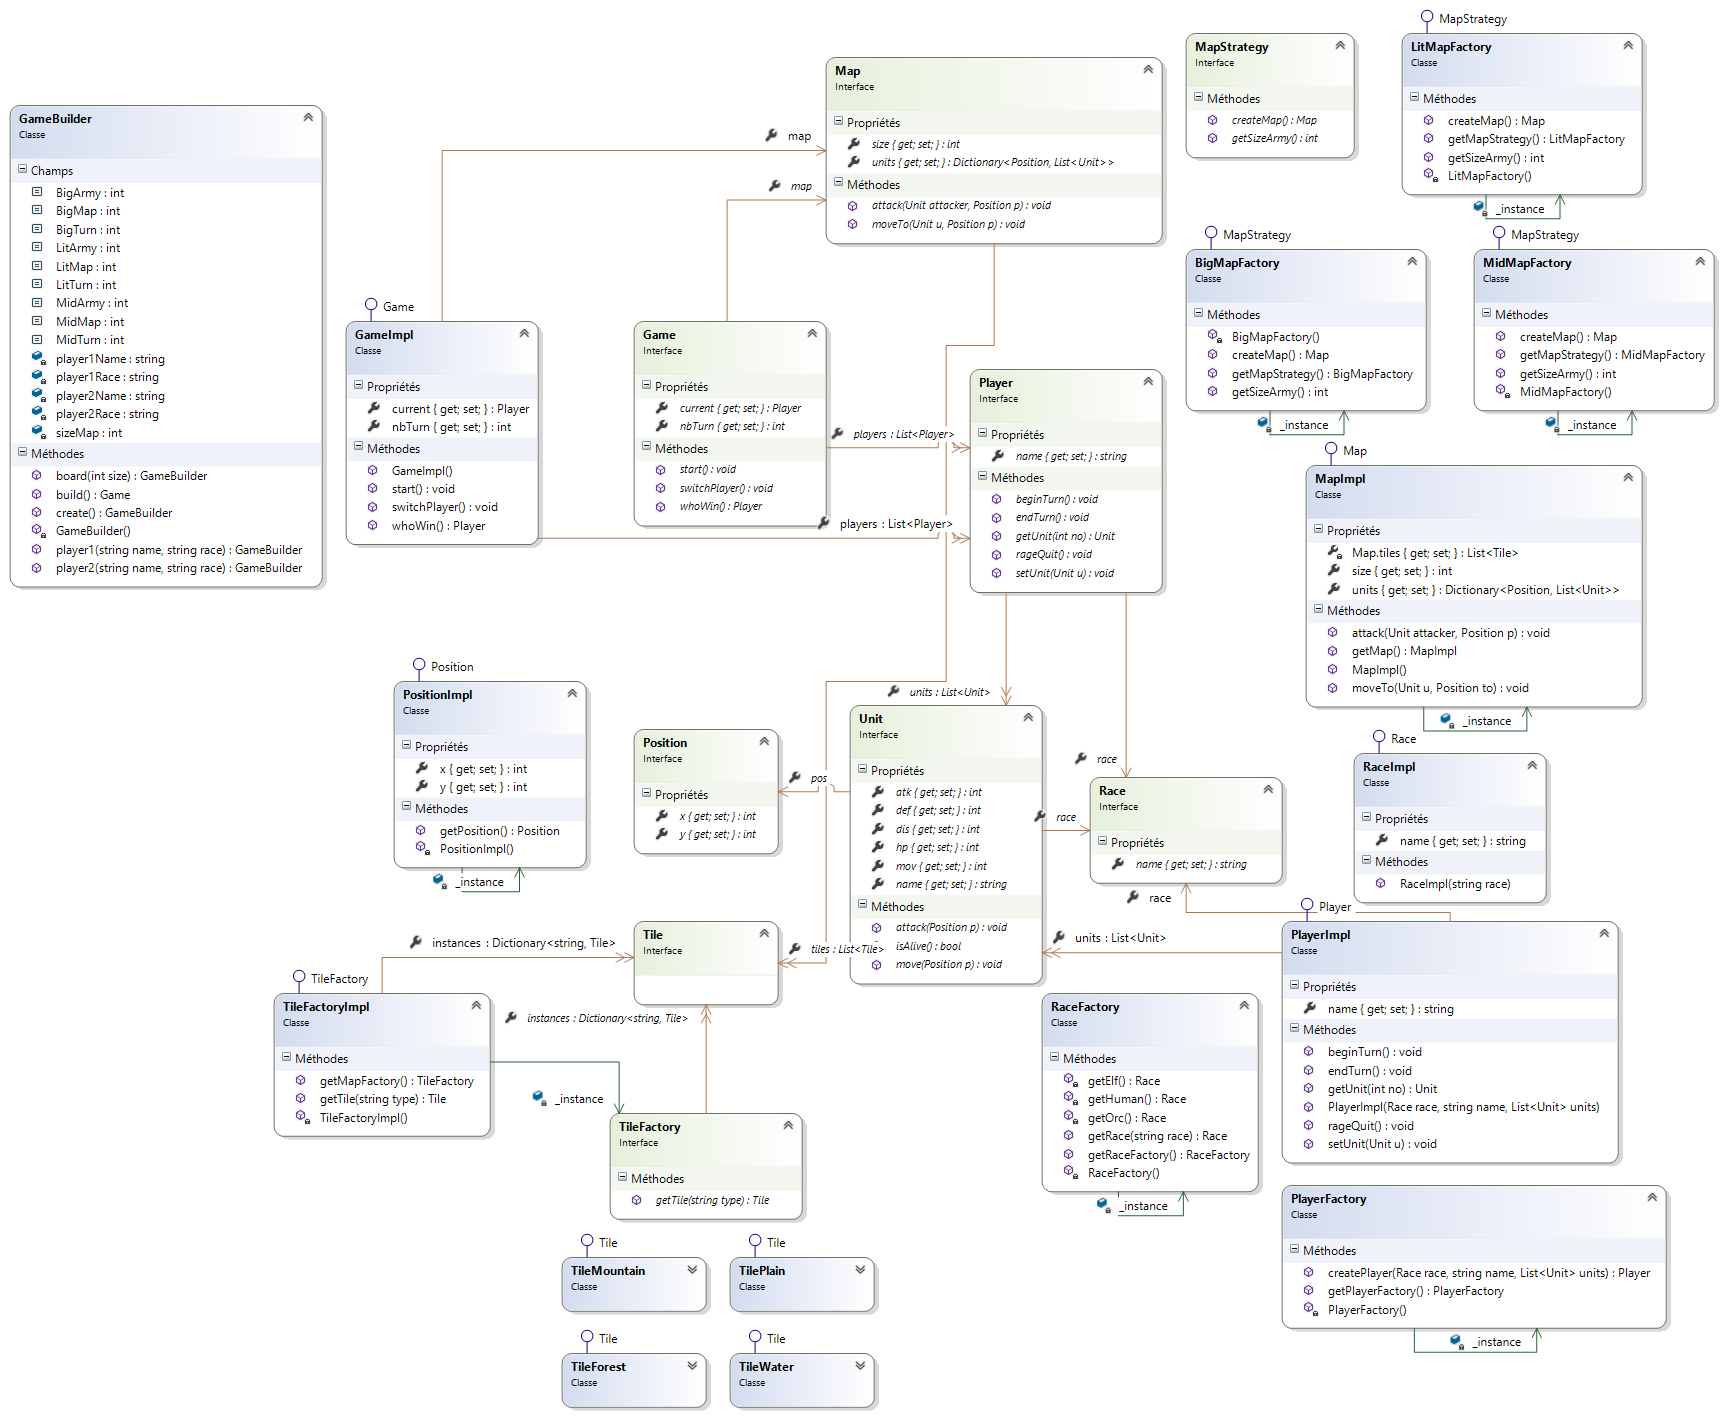
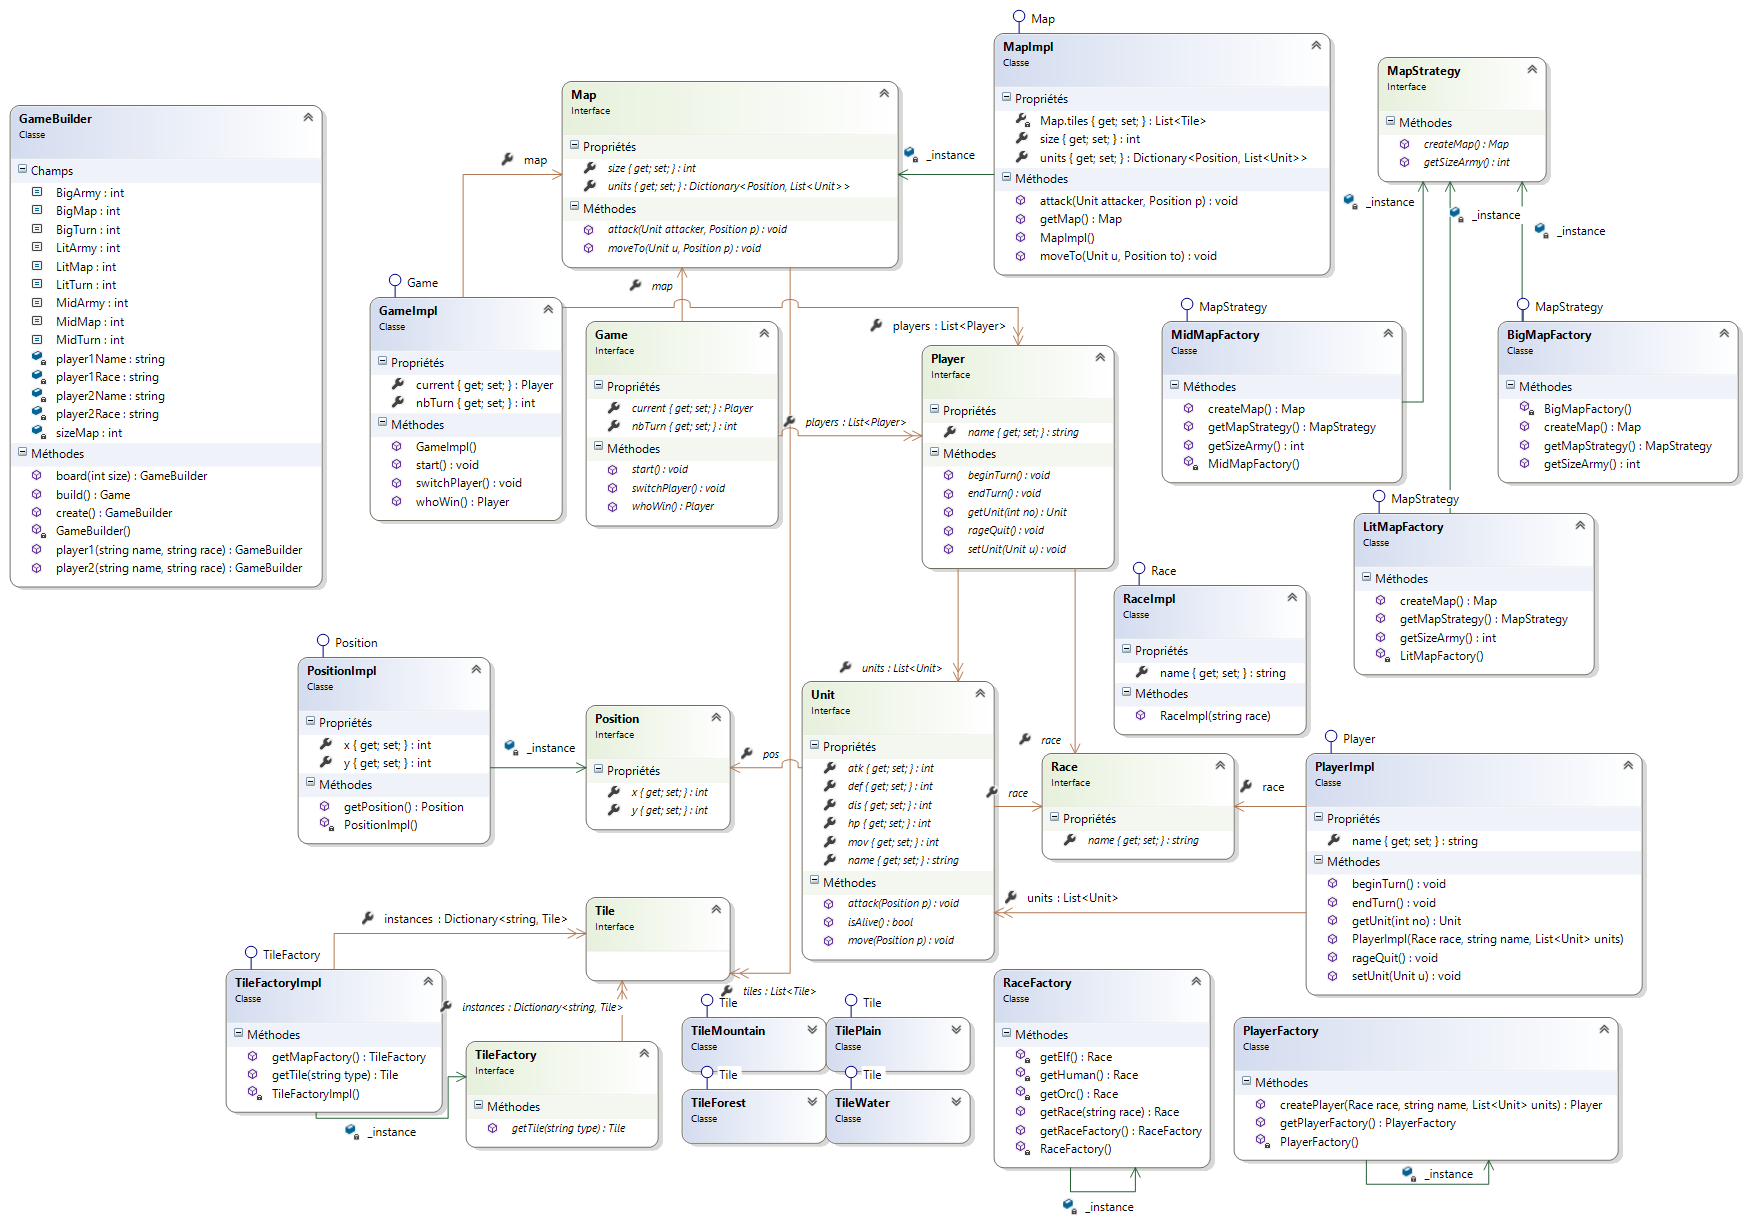
Use interface instead of object for singletons

Changed region(s): [[0.0, 0.0, 1.0, 1.0], [0.1538, 0.0621, 0.1846, 0.0931]]

diff --git a/dix-nez-lande/dix-nez-lande/Implem/BigMapFactory.cs b/dix-nez-lande/dix-nez-lande/Implem/BigMapFactory.cs
@@ -15,11 +15,11 @@ namespace dix_nez_lande.Implem
     {
         #region Singleton
 
-        private static BigMapFactory _instance = null;
+        private static MapStrategy _instance = null;
 
         private BigMapFactory() { }
 
-        public static BigMapFactory getMapStrategy()
+        public static MapStrategy getMapStrategy()
         {
             if (_instance == null)
                 _instance = new BigMapFactory();

diff --git a/dix-nez-lande/dix-nez-lande/Implem/LitMapFactory.cs b/dix-nez-lande/dix-nez-lande/Implem/LitMapFactory.cs
@@ -15,11 +15,11 @@ namespace dix_nez_lande.Implem
     {
         #region Singleton
 
-        private static LitMapFactory _instance = null;
+        private static MapStrategy _instance = null;
 
         private LitMapFactory() { }
 
-        public static LitMapFactory getMapStrategy()
+        public static MapStrategy getMapStrategy()
         {
             if (_instance == null)
                 _instance = new LitMapFactory();

diff --git a/dix-nez-lande/dix-nez-lande/Implem/MidMapFactory.cs b/dix-nez-lande/dix-nez-lande/Implem/MidMapFactory.cs
@@ -15,11 +15,11 @@ namespace dix_nez_lande.Implem
     {
         #region Singleton
 
-        private static MidMapFactory _instance = null;
+        private static MapStrategy _instance = null;
 
         private MidMapFactory() { }
 
-        public static MidMapFactory getMapStrategy()
+        public static MapStrategy getMapStrategy()
         {
             if (_instance == null)
                 _instance = new MidMapFactory();

diff --git a/dix-nez-lande/dix-nez-lande/Implem/MapImpl.cs b/dix-nez-lande/dix-nez-lande/Implem/MapImpl.cs
@@ -16,13 +16,13 @@ namespace dix_nez_lande.Implem
 
          #region Singleton
 
-        private static MapImpl _instance = null;
+        private static Map _instance = null;
 
         public MapImpl() {
             _instance = this;
         }
 
-        public static MapImpl getMap()
+        public static Map getMap()
         {
             return _instance;
         }

diff --git a/dix-nez-lande/dix-nez-lande/Implem/PositionImpl.cs b/dix-nez-lande/dix-nez-lande/Implem/PositionImpl.cs
@@ -15,7 +15,7 @@ namespace dix_nez_lande.Implem
     {
         #region Singleton
 
-        private static PositionImpl _instance = null;
+        private static Position _instance = null;
 
         private PositionImpl()
         {
